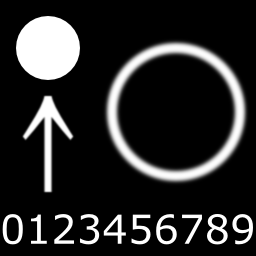
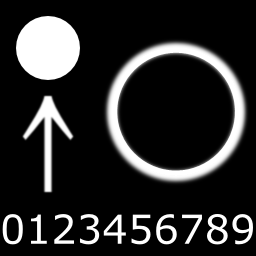
Drawing of the stones

Changed region(s): [[0.4375, 0.1875, 0.9375, 0.6875]]

diff --git a/Draw.cs b/Draw.cs
@@ -38,30 +38,44 @@ namespace Hailstone
         }
 
         /// <summary>
+        /// Expands a source and destination rectangle by a border specified in source coordinates.
+        /// </summary>
+        private static void _Expand(ref Rectangle Source, ref Rectangle Destination, double Border)
+        {
+            double wborder =  Border * (Destination.Right - Destination.Left) / (Source.Right - Source.Left);
+            double hborder = Border * (Destination.Top - Destination.Bottom) / (Source.Bottom - Source.Top);
+            Source.Left -= Border;
+            Source.Top -= Border;
+            Source.Right += Border;
+            Source.Bottom += Border;
+            Destination.Left -= wborder;
+            Destination.Top += hborder;
+            Destination.Right += wborder;
+            Destination.Bottom -= hborder;
+        }
+
+        /// <summary>
+        /// Draws a quad from the atlas texture.
+        /// </summary>
+        private static void _Quad(Render Render, Color4 Color, Rectangle Source, Rectangle Destination)
+        {
+            Render.Vertex(Destination.TopLeft, Source.TopLeft, Color);
+            Render.Vertex(Destination.BottomLeft, Source.BottomLeft, Color);
+            Render.Vertex(Destination.BottomRight, Source.BottomRight, Color);
+            Render.Vertex(Destination.TopRight, Source.TopRight, Color);
+        }
+
+        /// <summary>
         /// Draws a digit of the given size to the given point.
         /// </summary>
         public static void Digit(Render Render, uint Digit, Color4 Color, Vector Center, double Size)
         {
-            double uoffset = 0.0;
-            double udelta = 0.099609375;
-            double voffset = 0.828125;
-            double vdelta = 0.13671875;
-            double vsize = 0.1171875;
-
-            double uleft = uoffset + udelta * Digit;
-            double uright = uoffset + udelta * Digit + udelta;
-            double vtop = voffset;
-            double vbottom = voffset + vdelta;
-
-            double left = Center.X - Size * 0.5 * udelta / vsize;
-            double right = Center.X + Size * 0.5 * udelta / vsize;
-            double top = Center.Y + Size * 0.5 * vdelta / vsize;
-            double bottom = Center.Y - Size * 0.5 * vdelta / vsize;
-
-            Render.Vertex(left, top, uleft, vtop, Color);
-            Render.Vertex(left, bottom, uleft, vbottom, Color);
-            Render.Vertex(right, bottom, uright, vbottom, Color);
-            Render.Vertex(right, top, uright, vtop, Color);
+            double delta = 0.099609375;
+            double left = 0.0078125 + delta * Digit;
+            Rectangle source = new Rectangle(left, 0.8359375, left + 0.0859375, 0.953125);
+            Rectangle destination = new Rectangle(Center.X - 0.36 * Size, Center.Y + 0.5 * Size, Center.X + 0.36 * Size, Center.Y - 0.5 * Size);
+            _Expand(ref source, ref destination, 0.0078125);
+            _Quad(Render, Color, source, destination);
         }
 
         /// <summary>
@@ -87,6 +101,37 @@ namespace Hailstone
             }
         }
 
+        /// <summary>
+        /// Draws a circle.
+        /// </summary>
+        public static void Circle(Render Render, Color4 Color, Vector Center, double Radius)
+        {
+            Rectangle source = new Rectangle(0.4375, 0.1875, 0.9375, 0.6875);
+            Rectangle destination = new Rectangle(Center.X - Radius, Center.Y + Radius, Center.X + Radius, Center.Y - Radius);
+            _Expand(ref source, ref destination, 0.0625);
+            _Quad(Render, Color, source, destination);
+        }
+
+        /// <summary>
+        /// Draws a filled circle.
+        /// </summary>
+        public static void FilledCircle(Render Render, Color4 Color, Vector Center, double Radius)
+        {
+            Rectangle source = new Rectangle(0.0625, 0.0625, 0.3125, 0.3125);
+            Rectangle destination = new Rectangle(Center.X - Radius, Center.Y + Radius, Center.X + Radius, Center.Y - Radius);
+            _Expand(ref source, ref destination, 0.03125);
+            _Quad(Render, Color, source, destination);
+        }
+
+        /// <summary>
+        /// Draws a stone containing the given number.
+        /// </summary>
+        public static void Stone(Render Render, uint Number, Color4 Highlight, Color4 Fill, Vector Center, double Radius)
+        {
+            Draw.FilledCircle(Render, Fill, Center, Radius);
+            Draw.Circle(Render, Highlight, Center, Radius);
+            Draw.Number(Render, Number, Highlight, Center, 0.1, 0.08);
+        }
 
         /// <summary>
         /// Ends a drawing context.

diff --git a/Geometry.cs b/Geometry.cs
@@ -125,6 +125,50 @@ namespace Hailstone
         /// The vertical component of the bottom edge of the rectangle.
         /// </summary>
         public double Bottom;
+
+        /// <summary>
+        /// Gets the top-left corner of this rectangle.
+        /// </summary>
+        public Vector TopLeft
+        {
+            get
+            {
+                return new Vector(this.Left, this.Top);
+            }
+        }
+
+        /// <summary>
+        /// Gets the top-right corner of this rectangle.
+        /// </summary>
+        public Vector TopRight
+        {
+            get
+            {
+                return new Vector(this.Right, this.Top);
+            }
+        }
+
+        /// <summary>
+        /// Gets the left-left corner of this rectangle.
+        /// </summary>
+        public Vector  BottomLeft
+        {
+            get
+            {
+                return new Vector(this.Left, this.Bottom);
+            }
+        }
+
+        /// <summary>
+        /// Gets the bottom-right corner of this rectangle.
+        /// </summary>
+        public Vector BottomRight
+        {
+            get
+            {
+                return new Vector(this.Right, this.Bottom);
+            }
+        }
     }
 
     /// <summary>

diff --git a/Window.cs b/Window.cs
@@ -95,7 +95,7 @@ namespace Hailstone
 
         protected override void OnRenderFrame(FrameEventArgs e)
         {
-            GL.ClearColor(1.0f, 1.0f, 1.0f, 1.0f);
+            GL.ClearColor(0.5f, 0.7f, 0.9f, 1.0f);
             GL.Clear(ClearBufferMask.ColorBufferBit);
 
             Matrix4d mat = this.WorldToDevice;
@@ -103,14 +103,13 @@ namespace Hailstone
 
             Render r;
             Draw.Begin(out r);
-            Draw.Test(r);
 
             Random rand = new Random(1);
-            for (int t = 0; t < 100; t++)
+            for (int t = 0; t < 20; t++)
             {
                 double x = rand.NextDouble() * 10.0;
                 double y = rand.NextDouble() * 10.0;
-                Draw.Number(r, (uint)rand.Next(0, 10000), new Color4(0.0f, 0.0f, 0.0f, 1.0f), new Vector(x, y), 0.1, 0.08);
+                Draw.Stone(r, (uint)rand.Next(1, 1000), new Color4(1.0f, 1.0f, 0.8f, 1.0f), new Color4(0.4f, 0.7f, 1.0f, 1.0f), new Vector(x, y), 0.2);
             }
 
             Draw.End(r);
